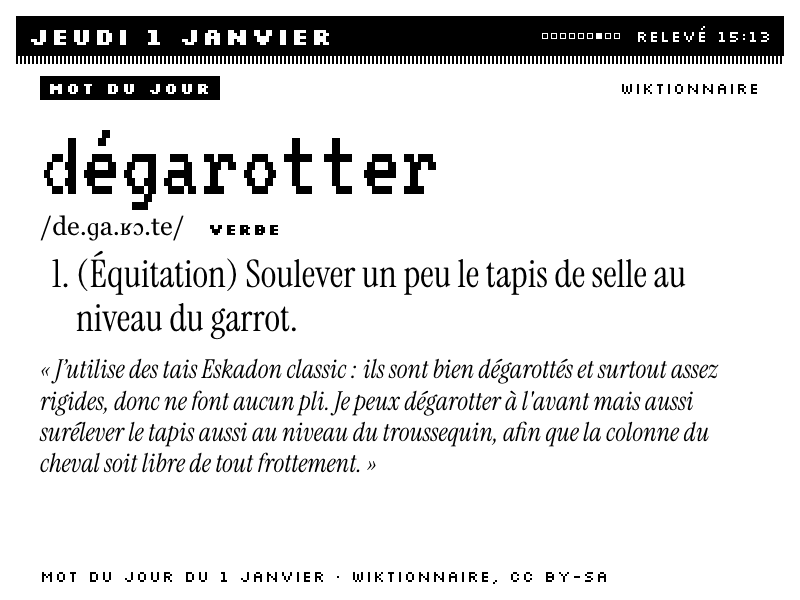
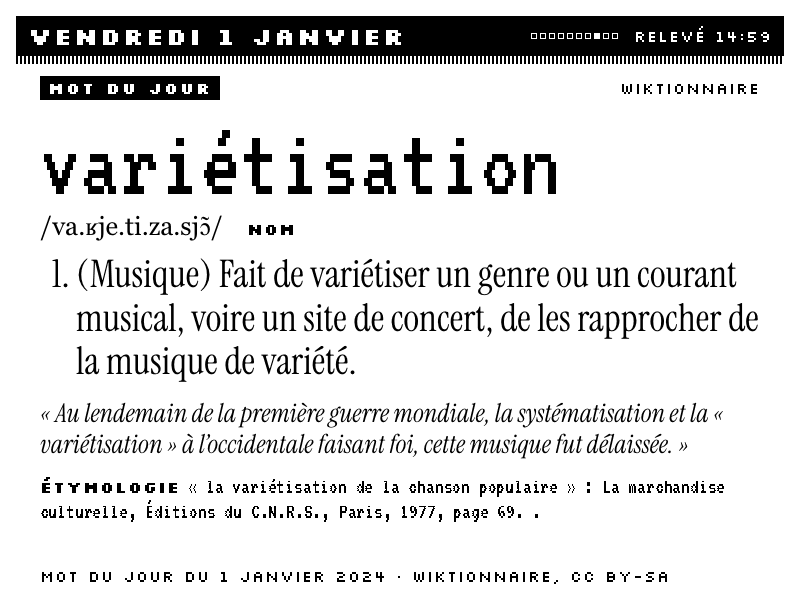
Écran Qualité de l'air ; dessin, livre, mot et citation retirés à 13 h

diff --git a/gabarit.html b/gabarit.html
@@ -159,6 +159,18 @@ img.t16 { display: block; image-rendering: pixelated; }
 .lumiere .jauges .role { padding-left: 6px; }
 .lumiere .barre-pleine { flex: 1; height: 12px; border: 2px solid var(--encre); }
 .lumiere .barre-pleine i { display: block; height: 100%; background: var(--encre); }
+/* qualité de l'air : reprend les blocs de la Lumière */
+.air .haut { gap: 24px; }
+.air .autre { white-space: nowrap; }
+.air .echelle { align-self: stretch; display: grid; grid-template-columns: repeat(6, 1fr); gap: 4px; margin: 6px 0 8px; }
+.air .echelle i { height: 16px; border: 2px solid var(--encre); }
+.air .echelle i.atteint { background: var(--encre); }
+.air .jauges { grid-template-columns: 212px 130px 36px 1fr; }
+.air .suite { width: 300px; flex: none; display: flex; flex-direction: column; justify-content: flex-end; padding-bottom: 6px; }
+.air .courbe { display: grid; grid-template-columns: repeat(24, 1fr); align-items: end; margin-top: 4px; }
+.air .col { display: flex; flex-direction: column; justify-content: flex-end; height: 128px; }
+.air .col i { display: block; width: 9px; background: var(--encre); }
+.air .col span { height: 22px; line-height: 22px; white-space: nowrap; }
 .lumiere .autre { display: flex; gap: 14px; align-items: baseline; border-top: 2px solid var(--encre); padding-top: 4px; margin-top: 6px; }
 /* livre à lire */
 .livre { flex: 1; display: grid; grid-template-columns: 300px 16px 1fr; min-height: 0; }

diff --git a/dashboard.py b/dashboard.py
@@ -57,20 +57,21 @@ MODELES = {"k4": (600, 800), "k5": (600, 800), "touch": (600, 800), "pw1": (758,
 # important, stations hors de leurs créneaux (STATIONS_CRENEAUX) et des 2 h avant une sortie, lumière hors des heures photo.
 PLAYLIST = {
     "matin": ("06:30", "09:00", [("meteo", 360), ("stations", 360), ("agenda", 360), ("lumiere", 300), ("courrier", 240),
-                                 ("mot", 240), ("citation", 180)]),
-    "journee": ("09:00", "19:00", [("meteo", 480), ("agenda", 360), ("courrier", 300), ("reseaux", 240), ("stations", 360),
+                                 ("air", 180), ("mot", 240), ("citation", 180)]),
+    "journee": ("09:00", "19:00", [("meteo", 480), ("agenda", 360), ("courrier", 300), ("reseaux", 240), ("air", 240), ("stations", 360),
                                    ("dessin", 360), ("lumiere", 360), ("livre", 240), ("mot", 240), ("citation", 180)]),
     "soiree": ("19:00", "23:00", [("meteo", 300), ("stations", 360), ("agenda", 240), ("dessin", 480), ("livre", 360),
                                   ("mot", 240), ("citation", 180)]),
     "nuit": ("23:00", "06:30", [("demain", 1800)]),
 }
 IMMINENT = 45  # minutes avant une sortie : l'écran Stations reste affiché, la rotation s'arrête
-PLEIN = ("meteo", "citation", "stations", "lumiere", "dessin", "livre", "mot")  # écrans sans la colonne météo
+PLEIN = ("meteo", "air", "citation", "stations", "lumiere", "dessin", "livre", "mot")  # écrans sans la colonne météo
 # Flash complet en arrivant sur un écran (les écrans conditionnels changent l'enchaînement : une disposition peut en
 # suivre une autre n'importe où) ; partiel pour la mise à jour d'un écran qui reste.
-COMPLET_A = ("meteo", "agenda", "courrier", "reseaux", "stations", "lumiere", "dessin", "livre", "mot", "citation", "demain")
-NAVIGATION = ["meteo", "agenda", "courrier", "reseaux", "stations", "lumiere", "dessin", "livre", "mot", "citation",
+COMPLET_A = ("meteo", "air", "agenda", "courrier", "reseaux", "stations", "lumiere", "dessin", "livre", "mot", "citation", "demain")
+NAVIGATION = ["meteo", "air", "agenda", "courrier", "reseaux", "stations", "lumiere", "dessin", "livre", "mot", "citation",
               "demain"]  # ordre des boutons de la liseuse
+RETIRAGE = 13  # heure du second tirage du jour : dessin, livre, mot et citation changent pour l'après-midi
 AGENDAS = CONFIG.get("agendas", {"primary": "Agenda"})  # calendarId → libellé
 SORTIES = tuple(CONFIG.get("agendas_sorties", []))  # agendas où un rendez-vous veut dire sortir (écran Stations)
 PAS_UNE_SORTIE = CONFIG.get("pas_une_sortie", "sport|salle")  # rendez-vous pour lesquels on ne prend pas le tram
@@ -85,6 +86,16 @@ CONCEPTS = NOTION.get("concepts", "")          # base des concepts de dessin (da
 BIBLIOTHEQUE = NOTION.get("bibliotheque", "")  # bibliothèque de livres (data source)
 JETON_BIBLIOTHEQUE = NOTION.get("jeton_bibliotheque", "NOTION_TOKEN")
 CLIENT_GOOGLE = CONFIG.get("google_client", ["GOOGLE_CLIENT_ID", "GOOGLE_CLIENT_SECRET"])  # variables du .env, client « Desktop »
+AIR = "https://air-quality-api.open-meteo.com/v1/air-quality"
+# Indice européen (EAQI) : plafond du niveau, nom, conseil.
+NIVEAUX_AIR = ((20, "BON", "Rien à signaler, on peut tout ouvrir."), (40, "CORRECT", "Aucune précaution à prendre."),
+               (60, "MOYEN", "Personnes sensibles : moins de sport dehors."), (80, "MAUVAIS", "Éviter le sport intense dehors."),
+               (100, "TRÈS MAUVAIS", "Pas d'effort dehors, fenêtres fermées."),
+               (math.inf, "EXTRÊME", "Rester dedans, fenêtres fermées."))
+POLLUANTS = (("pm2_5", "PARTICULES PM2.5", "les plus fines : chauffage, trafic"), ("pm10", "PARTICULES PM10", "combustion, poussières"),
+             ("nitrogen_dioxide", "DIOXYDE D'AZOTE", "surtout le trafic"), ("ozone", "OZONE", "soleil sur la pollution, l'été"))
+POLLENS = {"alder_pollen": "aulne", "birch_pollen": "bouleau", "grass_pollen": "graminées", "mugwort_pollen": "armoise",
+           "olive_pollen": "olivier", "ragweed_pollen": "ambroisie"}
 CLEVELAND = "https://openaccess-api.clevelandart.org/api/artworks/"
 FAMILLES = {  # famille de la consigne → requêtes Cleveland (une par jour, tirée au sort)
     "valeurs": [{"technique": "chalk"}, {"technique": "charcoal"}, {"technique": "wash"}],
@@ -431,15 +442,24 @@ def reseaux(maintenant):
     return {"reseaux": out, "semaine": sum(x["d7"] or 0 for x in out)}
 
 
+def air(maintenant):
+    """Qualité de l'air heure par heure sur 3 jours (Open-Meteo, sans clé) : indice européen, sous-indice et teneur
+    de chaque polluant, pollens (Europe, en saison)."""
+    champs = ["european_aqi"] + [x for p, _, _ in POLLUANTS for x in (p, f"european_aqi_{p}")] + list(POLLENS)
+    q = urllib.parse.urlencode({"latitude": LIEU["lat"], "longitude": LIEU["lon"], "hourly": ",".join(champs),
+                                "timezone": "Europe/Paris", "forecast_days": 3})
+    return appel(f"{AIR}?{q}")["hourly"]
+
+
 def citation(maintenant):
-    """Citation du jour de Wikiquote si elle existe pour cette date, sinon une de la banque choisie d'après la date."""
+    """Le matin, la citation du jour de Wikiquote si elle existe pour cette date ; sinon, et l'après-midi, une de la
+    banque choisie d'après le tirage du moment."""
     banque = json.loads((ICI / "citations.json").read_text(encoding="utf-8"))
     jour = f"{maintenant.day} {MOIS[maintenant.month - 1].lower()} {maintenant.year}"
     du_jour = [q for q in banque if q["jour"] == jour]
-    if du_jour:
+    if du_jour and maintenant.hour < RETIRAGE:
         return du_jour[0]
-    graine = int(hashlib.sha256(maintenant.strftime("%Y-%m-%d").encode()).hexdigest(), 16)
-    return banque[graine % len(banque)]
+    return banque[graine(maintenant) % len(banque)]
 
 
 def lune(maintenant):
@@ -613,7 +633,7 @@ def ecran(maintenant, panneau, contenu, meteo_html=None, importants=0):
     points = "".join(f'<i class="{"ici" if p == panneau else ""}"></i>' for p in NAVIGATION)
     quoi = POUBELLES.get(maintenant.weekday())  # la veille du ramassage, toute la journée
     rappel = f'<span class="badge rappel">{icone("poubelle", 16)}<span class="s16 gras">{quoi}</span></span>' if quoi else ""
-    # Place comptée (11 écrans aux boutons) : avec un badge, « RELEVÉ » tombe et la date s'abrège si besoin.
+    # Place comptée (12 écrans aux boutons) : avec un badge, « RELEVÉ » tombe et la date s'abrège si besoin.
     jours, mois = (JOURS_COURTS, MOIS_COURTS) if rappel and badge else (JOURS, MOIS_COURTS) if rappel else (JOURS, MOIS)
     if badge and not rappel and len(f"{JOURS[maintenant.weekday()]} {maintenant.day} {MOIS[maintenant.month - 1]}") > 18:
         mois = MOIS_COURTS
@@ -657,9 +677,14 @@ def propriete(p, k):
     return ""
 
 
+def tirage(maintenant):
+    """Clé du tirage du moment : un le matin, un autre à partir de RETIRAGE, pour ne pas revoir les mêmes l'après-midi."""
+    return f"{maintenant:%Y-%m-%d}{'-2' if maintenant.hour >= RETIRAGE else ''}"
+
+
 def graine(maintenant, sel=""):
-    """Même tirage toute la journée, un autre le lendemain."""
-    return int(hashlib.sha256(f"{maintenant:%Y-%m-%d}{sel}".encode()).hexdigest(), 16)
+    """Même résultat pendant tout le tirage du moment, un autre au suivant."""
+    return int(hashlib.sha256(f"{tirage(maintenant)}{sel}".encode()).hexdigest(), 16)
 
 
 def garder_du_jour(dossier, motif, garde):
@@ -749,10 +774,10 @@ def consigne(maintenant, concept):
 
 
 def oeuvre(maintenant, famille, sortie):
-    """Un dessin CC0 du Cleveland Museum qui passe sur l'e-ink, gardé toute la journée. Trois candidats au plus par
-    appel (le passage de dashboard.py est borné) : la recherche reprend où elle en était au passage suivant."""
+    """Un dessin CC0 du Cleveland Museum qui passe sur l'e-ink, gardé pendant le tirage du moment. La recherche
+    s'arrête au bout de 25 s (le passage de dashboard.py est borné) et reprend où elle en était au passage suivant."""
     from PIL import Image
-    jour = f"{maintenant:%Y-%m-%d}"
+    jour = tirage(maintenant)
     cache = sortie / "cache"
     fiche = cache / f"oeuvre-{jour}.json"
     if fiche.exists():
@@ -767,26 +792,28 @@ def oeuvre(maintenant, famille, sortie):
         total = json.loads(telecharger(f"{CLEVELAND}?{urllib.parse.urlencode({**base, 'limit': 1})}"))["info"]["total"]
         essais = {"jour": jour, "famille": famille, "base": base, "total": max(total, 1),
                   "debut": graine(maintenant, "oeuvre") % max(total, 1), "vus": 0}
-    q = urllib.parse.urlencode({**essais["base"], "limit": 3, "skip": (essais["debut"] + essais["vus"]) % essais["total"],
-                                "fields": "id,title,creators,creation_date,technique,images,url"})
-    for o in json.loads(telecharger(f"{CLEVELAND}?{q}"))["data"]:
-        essais["vus"] += 1
-        web = ((o.get("images") or {}).get("web") or {}).get("url")
-        if not web:
-            continue
-        img = Image.open(io.BytesIO(telecharger(web, timeout=10)))
-        ok, _ = affichable(img, o.get("technique") or "", o.get("title") or "")
-        if not ok:
-            continue
-        photo = cache / f"oeuvre-{jour}.jpg"
-        img.convert("RGB").save(photo, quality=92)
-        auteur = re.sub(r"\s*\(.*$", "", (o.get("creators") or [{}])[0].get("description") or "Anonyme")
-        res = {"titre": o["title"], "auteur": auteur, "date": o.get("creation_date") or "", "image": str(photo),
-               "ratio": img.width / img.height}
-        ecrire(fiche, json.dumps(res, ensure_ascii=False))
-        garder_du_jour(cache, "oeuvre-2*.json", fiche.name)  # fiches et images des jours passés
-        garder_du_jour(cache, "oeuvre-2*.jpg", photo.name)
-        return res
+    limite = time.monotonic() + 25
+    while time.monotonic() < limite and essais["vus"] < essais["total"]:
+        q = urllib.parse.urlencode({**essais["base"], "limit": 3, "skip": (essais["debut"] + essais["vus"]) % essais["total"],
+                                    "fields": "id,title,creators,creation_date,technique,images,url"})
+        for o in json.loads(telecharger(f"{CLEVELAND}?{q}"))["data"]:
+            essais["vus"] += 1
+            web = ((o.get("images") or {}).get("web") or {}).get("url")
+            if not web:
+                continue
+            img = Image.open(io.BytesIO(telecharger(web, timeout=10)))
+            ok, _ = affichable(img, o.get("technique") or "", o.get("title") or "")
+            if not ok:
+                continue
+            photo = cache / f"oeuvre-{jour}.jpg"
+            img.convert("RGB").save(photo, quality=92)
+            auteur = re.sub(r"\s*\(.*$", "", (o.get("creators") or [{}])[0].get("description") or "Anonyme")
+            res = {"titre": o["title"], "auteur": auteur, "date": o.get("creation_date") or "", "image": str(photo),
+                   "ratio": img.width / img.height}
+            ecrire(fiche, json.dumps(res, ensure_ascii=False))
+            garder_du_jour(cache, "oeuvre-2*.json", fiche.name)  # fiches et images des tirages passés
+            garder_du_jour(cache, "oeuvre-2*.jpg", photo.name)
+            return res
     ecrire(suivi, json.dumps(essais, ensure_ascii=False))
     return {"erreur": f"Dessin du jour : recherche en cours ({essais['vus']} essayés)"}
 
@@ -946,9 +973,9 @@ def heure_photo(maintenant, s):
 
 def livre_du_jour(maintenant, sortie):
     """Un livre possédé et pas lu, parmi ceux que propose la formule « Suggéré ? » de Ma bibliothèque (elle change
-    chaque heure : le choix du jour est gardé dans une fiche)."""
+    chaque heure : le choix du tirage du moment est gardé dans une fiche)."""
     cache = sortie / "cache"
-    fiche = cache / f"livre-{maintenant:%Y-%m-%d}.json"
+    fiche = cache / f"livre-{tirage(maintenant)}.json"
     if fiche.exists():
         return json.loads(fiche.read_text(encoding="utf-8"))
     filtre = {"and": [{"property": "Suggéré ?", "formula": {"string": {"equals": "A lire 🤓"}}},
@@ -966,7 +993,7 @@ def livre_du_jour(maintenant, sortie):
            "resume": re.sub(r"^\(Généré via IA\)\s*", "", resume), "tags": propriete(p, "Tags"), "type": propriete(p, "Type")}
     couverture = propriete(p, "Chemin de la couverture (calc.)")
     if couverture:
-        photo = cache / f"livre-{maintenant:%Y-%m-%d}.img"
+        photo = cache / f"livre-{tirage(maintenant)}.img"
         photo.write_bytes(telecharger(couverture, timeout=20))
         res["image"] = str(photo)
         garder_du_jour(cache, "livre-2*.img", photo.name)
@@ -976,10 +1003,11 @@ def livre_du_jour(maintenant, sortie):
 
 
 def mot_du_jour(maintenant, sortie):
-    """Le mot du jour du Wiktionnaire. Il arrive qu'il n'ait pas de page (« néphritique », 01/01/2026) : on prend alors
-    celui du même jour les années d'avant, jamais vu à l'écran, plutôt que celui de la veille, qui n'est qu'un dernier recours."""
+    """Le matin, le mot du jour du Wiktionnaire. Il arrive qu'il n'ait pas de page (« néphritique », 01/01/2026) : on
+    prend alors celui du même jour les années d'avant, jamais vu à l'écran, plutôt que celui de la veille, qui n'est
+    qu'un dernier recours. L'après-midi, directement un mot des années d'avant."""
     cache = sortie / "cache"
-    fiche = cache / f"mot-{maintenant:%Y-%m-%d}.json"
+    fiche = cache / f"mot-{tirage(maintenant)}.json"
     if fiche.exists():
         return json.loads(fiche.read_text(encoding="utf-8"))
     api = "https://fr.wiktionary.org/w/api.php?"
@@ -988,7 +1016,8 @@ def mot_du_jour(maintenant, sortie):
         r = json.loads(telecharger(api + urllib.parse.urlencode({"action": "parse", "page": page, "prop": "wikitext",
                                                                  "format": "json", "redirects": 1})))
         return (r.get("parse") or {}).get("wikitext", {}).get("*")
-    for recul in (0, 365, 730, 1095, 1460, 1825, 1, 2, 3):
+    for recul in ((0, 365, 730, 1095, 1460, 1825, 1, 2, 3) if maintenant.hour < RETIRAGE else
+                  (730, 1095, 1460, 1825, 2190, 365, 1, 2, 3)):
         jour = maintenant - dt.timedelta(days=recul)
         mot = re.sub(r"<noinclude>.*", "", wikitexte(f"Modèle:Mot_du_jour/{jour:%Y/%m/%d}") or "", flags=re.S).strip()
         t = wikitexte(mot) if mot else None
@@ -1199,6 +1228,49 @@ def ecran_lumiere(maintenant, s, ciel):
             f'{nuages}{ligne_autre}</section>')
 
 
+def moment_aerer(maintenant, a, i):
+    """(rang de l'heure, libellé) où l'indice sera le plus bas, entre 8 h et 22 h : aujourd'hui, sinon demain."""
+    def jour(d):
+        return [j for j in range(i, len(a["time"])) if a["time"][j][:10] == f"{d:%Y-%m-%d}" and 8 <= int(a["time"][j][11:13]) < 22
+                and a["european_aqi"][j] is not None]
+    heures, quand = jour(maintenant), ""
+    if not heures:
+        heures, quand = jour(maintenant + dt.timedelta(days=1)), "DEMAIN "
+    j = min(heures, key=lambda x: a["european_aqi"][x])
+    return j, "MAINTENANT" if j == i else f"{quand}{int(a['time'][j][11:13])} H"
+
+
+def ecran_air(maintenant, a):
+    if "erreur" in a:
+        return entete("QUALITÉ DE L'AIR") + f'<p>{esc(a["erreur"])}</p>'
+    heure = f"{maintenant:%Y-%m-%dT%H}:00"
+    i = a["time"].index(heure) if heure in a["time"] else None
+    if i is None or a["european_aqi"][i] is None:
+        return entete("QUALITÉ DE L'AIR") + "<p>Pas de mesure pour cette heure.</p>"
+    indice = a["european_aqi"][i]
+    rang, (_, niveau, conseil) = next((n, x) for n, x in enumerate(NIVEAUX_AIR) if indice <= x[0])
+    echelle = "".join(f'<i class="{"atteint" if n <= rang else ""}"></i>' for n in range(len(NIVEAUX_AIR)))
+    sous = {p: a[f"european_aqi_{p}"][i] or 0 for p, _, _ in POLLUANTS}
+    cause = next(nom for p, nom, _ in POLLUANTS if sous[p] == max(sous.values()))
+    heros = (f'<div class="heros"><div class="entete"><span class="tag">QUALITÉ DE L\'AIR</span><span class="s24 gras">INDICE {indice}</span></div>'
+             f'<div class="grand">{niveau}</div><div class="echelle">{echelle}</div>'
+             f'<div class="phrase">{esc(conseil)}</div><div class="phrase s16 gras">CAUSE : {esc(cause)}</div></div>')
+    barres = "".join(f'<div class="col"><i style="height:{min(v or 0, 100)}px"></i><span>{a["time"][j][11:13] if n % 6 == 0 else ""}</span></div>'
+                     for n, (j, v) in enumerate((j, a["european_aqi"][j]) for j in range(i, min(i + 24, len(a["time"])))))
+    courbe = f'<div class="suite"><div class="s16 gras">INDICE SUR 24 H</div><div class="courbe">{barres}</div></div>'
+    jauges = "".join(f'<span class="s16 gras">{nom}</span><div class="barre-pleine"><i style="width:{min(sous[p], 100)}%"></i></div>'
+                     f'<span class="pc">{a[p][i] or 0:.0f}</span><span class="role">{role}</span>' for p, nom, role in POLLUANTS)
+    polluants = (f'<div class="nuages"><div class="s16 gras">CE QU\'IL Y A DANS L\'AIR (MICROGRAMMES PAR M3)</div>'
+                 f'<div class="jauges">{jauges}</div></div>')
+    j, moment = moment_aerer(maintenant, a, i)
+    fin = next((k for k in range(i, len(a["time"])) if a["time"][k][:10] != heure[:10]), len(a["time"]))
+    pollens = sorted(((max(x or 0 for x in a[p][i:fin]), nom) for p, nom in POLLENS.items()), reverse=True)
+    pollens = ", ".join(f"{nom} {v:.0f}" for v, nom in pollens[:2] if v >= 1) or "aucun"
+    bas = (f'<div class="autre"><span class="s16 gras">AÉRER</span><span>{moment} · indice {a["european_aqi"][j]}</span>'
+           f'<span class="s16 gras">POLLENS</span><span>{esc(pollens)}</span></div>')
+    return f'<section class="lumiere air"><div class="haut">{heros}{courbe}</div>{polluants}{bas}</section>'
+
+
 def ecran_livre(maintenant, b, sortie):
     if "erreur" in b:
         return entete("À LIRE") + f'<p>{esc(b["erreur"])}</p>'
@@ -1359,6 +1431,7 @@ def main():
         "agenda": lambda: en_cache(args.sortie, "agenda", ttl(300), agenda, maintenant, args.sortie),
         "courrier": lambda: en_cache(args.sortie, "courrier-importants", ttl(120), courrier, maintenant),
         "reseaux": lambda: en_cache(args.sortie, "reseaux", ttl(10800), reseaux, maintenant),
+        "air": lambda: en_cache(args.sortie, "air", ttl(3600), air, maintenant),
         "citation": lambda: sur(citation, maintenant),
         "concepts": lambda: en_cache(args.sortie, "concepts", ttl(7 * 86400), concepts, maintenant),
         "livre": lambda: en_cache(args.sortie, "livre", ttl(600), livre_du_jour, maintenant, args.sortie),
@@ -1387,6 +1460,7 @@ def main():
         actuel = "stations"
     fabriques = {
         "meteo": lambda: ecran_meteo(maintenant, m, age),
+        "air": lambda: ecran_air(maintenant, sources["air"]()),
         "agenda": lambda: panneau_agenda(maintenant, sources["agenda"]()),
         "courrier": lambda: panneau_courrier(maintenant, c),
         "reseaux": lambda: panneau_reseaux(maintenant, sources["reseaux"]()),

diff --git a/README.md b/README.md
@@ -1,6 +1,6 @@
 # Kindle dashboard
 
-**Mon vieux Kindle 4 est devenu un écran d'affichage permanent : météo, agenda, courrier, tram et métro en direct, dessin du jour, lumière pour la photo, mot du jour, citation.**
+**Mon vieux Kindle 4 est devenu un écran d'affichage permanent : météo, qualité de l'air, agenda, courrier, tram et métro en direct, dessin du jour, lumière pour la photo, mot du jour, citation.**
 
 Mon Mac fabrique les images, la liseuse ne fait que les afficher. Chaque minute, un script rassemble les données, remplit une page HTML, la photographie avec Chromium à la taille exacte de la dalle et la passe en 16 niveaux de gris. La liseuse, jailbreakée et branchée sur un chargeur, lit l'état du Mac en wifi toutes les 20 secondes et ne télécharge l'écran que s'il a changé. Style néo-rétro : polices pixel à leurs tailles natives, titres inversés, trames, aucun texte gris.
 
@@ -27,6 +27,7 @@ Les écrans arrivent dans `demo/` : `apercu-<écran>.png` (paysage, pour l'œil)
 | Écran | Ce qu'il montre | Source | Il faut |
 |---|---|---|---|
 | Météo | maintenant, ressenti, vent, pluie, la journée de 2 h en 2 h, 7 jours, lever et coucher, phase de la lune | [Open-Meteo](https://open-meteo.com/) | rien |
+| Qualité de l'air | indice européen et son niveau, conseil, polluant en cause, indice sur 24 h, particules, dioxyde d'azote et ozone expliqués à l'écran, meilleure heure pour aérer, pollens en saison | [Open-Meteo](https://open-meteo.com/en/docs/air-quality-api) | rien |
 | Agenda | rendez-vous d'aujourd'hui et de demain, passés retirés | Google Agenda, lecture seule | un client OAuth, `autoriser.py` |
 | Courrier | mails non lus que Gmail marque « Important », écran sauté s'il n'y en a pas | Gmail, lecture seule | idem |
 | Abonnés | abonnés par réseau, gain par jour sur 30 jours | une table [n8n](https://n8n.io/) remplie chaque jour par un workflow | `N8N_API_KEY`, facultatif |
@@ -35,7 +36,7 @@ Les écrans arrivent dans `demo/` : `apercu-<écran>.png` (paysage, pour l'œil)
 | Dessin du jour | un concept, une consigne de 10 à 30 min, un dessin ancien du domaine public | [`consignes-dessin.json`](consignes-dessin.json), [Cleveland Museum of Art](https://openaccess-api.clevelandart.org/) (CC0) | rien (Notion, facultatif) |
 | Livre à lire | un livre de ma bibliothèque que je n'ai pas encore lu, couverture tramée | une base Notion | `NOTION_TOKEN`, facultatif |
 | Mot du jour | mot, prononciation, définitions, exemple, étymologie | [Wiktionnaire](https://fr.wiktionary.org/) | rien |
-| Citation | la citation du jour de Wikiquote, sinon une de la banque | [`citations.json`](citations.json) | rien |
+| Citation | le matin la citation du jour de Wikiquote si elle existe, sinon une de la banque | [`citations.json`](citations.json) | rien |
 | Demain | la nuit, les rendez-vous du lendemain | Google Agenda | idem Agenda |
 
 Le bandeau du haut porte la date, une case par écran (pleine pour celui affiché), le nombre de mails importants, et la veille du ramassage un rappel des poubelles. Un écran sans réglage (pas de station, pas de base Notion) sort de la rotation et des boutons. Une source en panne affiche un message dans son bloc : l'écran sort toujours.
@@ -94,12 +95,14 @@ Le jeton passe en clair sur le réseau local : il arrête un appareil curieux, p
 
 | Plage | Écrans (minutes) |
 |---|---|
-| Matin, 06:30 à 09:00 | Météo 6, Stations 6, Agenda 6, Lumière 5, Courrier 4, Mot 4, Citation 3 |
-| Journée, 09:00 à 19:00 | Météo 8, Agenda 6, Courrier 5, Abonnés 4, Stations 6, Dessin 6, Lumière 6, Livre 4, Mot 4, Citation 3 |
+| Matin, 06:30 à 09:00 | Météo 6, Stations 6, Agenda 6, Lumière 5, Courrier 4, Air 3, Mot 4, Citation 3 |
+| Journée, 09:00 à 19:00 | Météo 8, Agenda 6, Courrier 5, Abonnés 4, Air 4, Stations 6, Dessin 6, Lumière 6, Livre 4, Mot 4, Citation 3 |
 | Soirée, 19:00 à 23:00 | Météo 5, Stations 6, Agenda 4, Dessin 8, Livre 6, Mot 4, Citation 3 |
 | Nuit, 23:00 à 06:30 | Demain, fixe |
 
 Trois écrans n'entrent dans le cycle que s'ils ont quelque chose à dire : **Courrier** s'il y a un mail important non lu ; **Stations** dans ses créneaux (`stations_creneaux`) et dans les 2 h avant un rendez-vous d'un agenda de sorties, puis fixe dans les 45 dernières minutes ; **Lumière** autour de l'heure bleue et de l'heure dorée. Flash complet à chaque changement d'écran, partiel pour la mise à jour d'un écran qui reste (les minutes du tram).
+
+Je l'ai sur mon bureau toute la journée : pour ne pas revoir les mêmes l'après-midi, dessin, livre, mot et citation sont retirés à 13 h (`RETIRAGE` dans [`dashboard.py`](dashboard.py)).
 
 ## Réglages
 
@@ -130,7 +133,7 @@ La base Notion de la bibliothèque doit avoir les propriétés `Titre`, `Auteurs
 - **Touches** : un `dd` et un `hexdump` par évènement de `/dev/input/event*`, périphérique gardé ouvert ; 0,7 s d'un appui à l'écran (dont 0,36 s d'`eips`).
 - **E-ink** : polices pixel seulement à leurs tailles natives (VT323 25, 50, 75… ; Silkscreen 16, 24), sans lissage ; aucun texte gris sur une dalle Pearl ; images au contraste étiré puis tramées en 16 gris (Floyd-Steinberg), l'arrondi simple fait des bandes. Mesures et sources : [`RECHERCHE-DESIGN.md`](RECHERCHE-DESIGN.md).
 - **Dessins pour l'e-ink** : l'API ouverte du Cleveland Museum renvoie aussi des aquarelles et des feuilles pâles ; `affichable()` garde les techniques graphiques (graphite, craie, plume, fusain, lavis), écarte la couleur, les rectos-versos, les formats extrêmes, et exige une encre entre 4 et 45 % de la surface (seuils calés sur 20 dessins).
-- **Wiktionnaire** : le mot du jour est programmé d'avance, sa page peut ne pas encore exister, ou ne jamais exister (je prends alors celui du même jour une année passée) ; sans agent utilisateur conforme à la politique de Wikimedia, l'API répond 429.
+- **Wiktionnaire** : le mot du jour est programmé d'avance, sa page peut ne pas encore exister, ou ne jamais exister (je prends alors celui du même jour une année passée, comme pour le second mot de la journée) ; sans agent utilisateur conforme à la politique de Wikimedia, l'API répond 429.
 - **Google** : un client OAuth en mode « Test » voit ses jetons expirer en 7 jours ; `verifier.py` fait un vrai échange de jeton pour le voir venir.
 
 ## Fichiers
